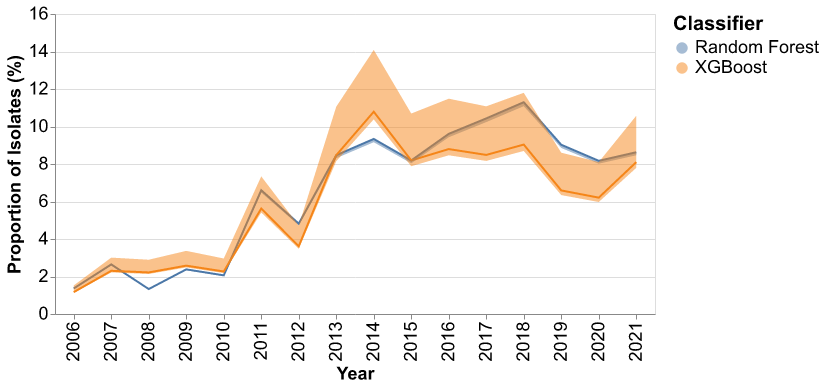
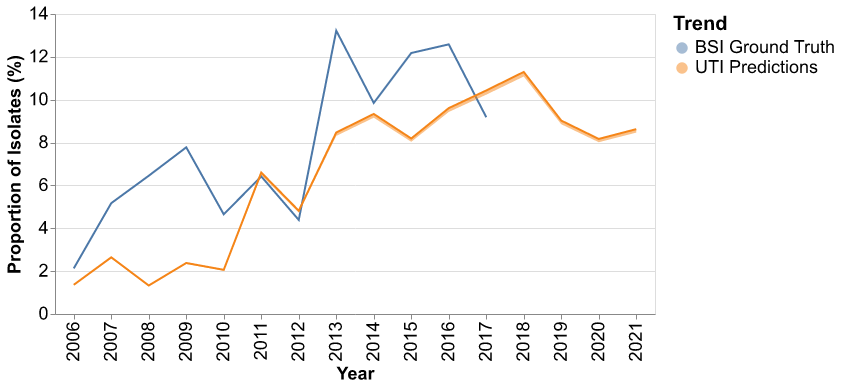
Changing prediction plots for publication

diff --git a/scripts/classifierutils.py b/scripts/classifierutils.py
@@ -9,8 +9,8 @@ from sklearn.ensemble import RandomForestClassifier
 from sklearn.model_selection import GridSearchCV
 from xgboost import XGBClassifier
 
-from scipy.stats import pearsonr, MonteCarloMethod
-from matplotlib import pyplot as plt
+from scipy.stats import pearsonr, PermutationMethod
+
 
 def splitData(*arrays, training_frac=0.8, seed=21687):
     '''
@@ -128,7 +128,7 @@ def testPerformance(y_true:np.ndarray, y_pred:np.ndarray, classifier_name:str=No
 
 
 
-def getYearlyFractions(label:np.ndarray, year:np.ndarray):
+def getYearlyFractions(label:np.ndarray, year:np.ndarray, colname:str) -> pd.core.frame.DataFrame:
     '''
     Helper function to compute the fraction of isolates that are positively labeled
     in each year.
@@ -141,8 +141,10 @@ def getYearlyFractions(label:np.ndarray, year:np.ndarray):
         -  (numpy array) : vector of fractions for each unique year in the 'year' vector.
     '''
     year_axis = np.unique(year)
-    year_masks = [year==yr for yr in year_axis]
-    year_frac = [np.sum(label[mask]==1)/mask.sum() for mask in year_masks] 
+    year_masks = {yr:year==yr for yr in year_axis}
+    year_frac = pd.DataFrame(index=year_axis, columns=[colname])
+    for yr,mask in year_masks.items():
+        year_frac.loc[yr,colname] = np.sum(label[mask]==1)/mask.sum()
     return year_frac
 
 
@@ -183,9 +185,6 @@ def testClassifiers(df:pd.core.frame.DataFrame, err_df:pd.core.frame.DataFrame, 
     charts = []
     printstr = ""
 
-    # ## Reset the index of err_df for later use
-    # err_df = err_df.set_index("Year")
-
     ## Isolate the classifier names
     classifier_names = df.columns.tolist()[6:]
 
@@ -203,11 +202,8 @@ def testClassifiers(df:pd.core.frame.DataFrame, err_df:pd.core.frame.DataFrame, 
     ## Compute desired metrics for each dataset.
     for split,split_df in {"Test":df_test,"Training":df_train}.items():
         ## Isolate data array and labels.
-        # x,y,year,name = tup
         y = split_df["Label"].to_numpy()
-        name = split_df.index.to_numpy()
         year = split_df["Year"].to_numpy()
-        # x = 
 
         ## Add a header to the summary text.
         printstr += "\n\n" + "="*56 + "\n"
@@ -215,15 +211,9 @@ def testClassifiers(df:pd.core.frame.DataFrame, err_df:pd.core.frame.DataFrame, 
         printstr += "="*56
 
         # Compute the true fraction of samples belonging to 131-C
-        year_axis = np.unique(year)
-        true_year_frac = getYearlyFractions(y, year)
-        # corr_dict = {"Truth":true_year_frac}
-
-        ## Initialize a dataframe to plot fraction predictions
-        alt_df = pd.DataFrame({"Year":year_axis, "Truth": true_year_frac})
-
-        ## Initialize a dataframe for the raw predictions
-        pred_df = pd.DataFrame({"Label":y, "Year":year}, index=name)
+        # year_axis = np.unique(year)
+        alt_df = getYearlyFractions(y, year, "Truth")
+        year_axis = alt_df.index.to_numpy()
 
         for cname in classifier_names:
 
@@ -231,39 +221,36 @@ def testClassifiers(df:pd.core.frame.DataFrame, err_df:pd.core.frame.DataFrame, 
             y_pred = split_df[cname].to_numpy()
 
             ## Compute the performance metrics for the current dataset-classifier combination
-            # y_pred = c.predict(x)
             performance_metrics = testPerformance(y, y_pred, cname, verbose=False)
             printstr += performance_metrics[-1]
 
-            # ## Add the current classifier's predictions to the dataset's prediction table
-            # pred_df[cname] = y_pred
-
             ## Compute predicted fractions of 131-C each year
-            pred_year_frac = getYearlyFractions(y_pred, year)
-            alt_df[cname] = pred_year_frac
-            # corr_dict[cname] = pred_year_frac
+            pred_year_frac = getYearlyFractions(y_pred, year, cname)
+            alt_df = pd.merge(alt_df, pred_year_frac, how='outer', left_index=True, right_index=True)
 
             ## Add predicted information to the output string
             printstr += "\n\tYear  |  Predicted Fraction | True Fraction\n\t" + "-"*43 + "\n"
             for jx,yr in enumerate(year_axis):
-                printstr += f"\t{yr}  |\t{pred_year_frac[jx]:3f} \t| \t {true_year_frac[jx]:3f}\n"
+                printstr += f"\t{yr}  |\t{alt_df.loc[yr,cname]:3f} \t| \t {alt_df.loc[yr,'Truth']:3f}\n"
 
             ## Compute the Pearson correlation coeffiecient between the truth and 
             #  predicted fraction values
-            r_val = pearsonr(pred_year_frac, true_year_frac, alternative="greater", method=MonteCarloMethod(n_resamples=5e4))
+            r_val = pearsonr(alt_df[cname], alt_df["Truth"], alternative="greater", method=PermutationMethod())
             printstr += f"\nPearson R: {r_val.statistic:5f}\nR P-value: {r_val.pvalue}\n"
 
         # ## Save the current dataset's predictions
         # pred_df.to_csv(f"training-metrics/{pan_str}/{prefix}_{split}-predictions.csv")
 
+        ## Add a column to specify the data group
         alt_df["Dataset"] = split
-
 
         ## Save correlation plot data
         corr_df = pd.concat([corr_df, alt_df[corr_cols]])
 
         ## Impute the colums of the yearly fraction dataframe to produce 
         #  long-form data, then convert fractions into percentage.
+        alt_df.index.name = "Year"
+        alt_df.reset_index(inplace=True)
         alt_df = alt_df[trend_cols].melt("Year", var_name="Classifier", value_name="Fraction")
         alt_df["Fraction"] = alt_df["Fraction"] * 100
         
@@ -347,7 +334,7 @@ def testClassifiers(df:pd.core.frame.DataFrame, err_df:pd.core.frame.DataFrame, 
 
 
 
-def predictClassifiers(df:pd.core.frame.DataFrame, err_df:pd.core.frame.DataFrame, pan_str:str, prefix:str):
+def predictClassifiers(df:pd.core.frame.DataFrame, err_df:pd.core.frame.DataFrame, pan_str:str, prefix:str, truth_trend:pd.core.frame.DataFrame):
     '''
     Use the trained classifiers to predict and analyze an unlabeled dataset.  This
     function also saves the raw predictions to "output/uti-predictions.csv".
@@ -366,44 +353,48 @@ def predictClassifiers(df:pd.core.frame.DataFrame, err_df:pd.core.frame.DataFram
                             and XGBoost predictions for each year.
     '''    
 
-    ## Initialize a dataframe for plotting
-    alt_df = pd.DataFrame({"Year":np.unique(df["Year"])})
+    ## Define the best classifier
+    cname = "Random Forest"
+
+    ## Use the truth trend as an initial dataframe
+    alt_df = truth_trend.copy()
 
     ## Define the classifier names
     classifier_names = df.columns[4:]
 
     ## Compute the fraction of positive predictions for each year
-    for cname in classifier_names:
-        year_fracs = getYearlyFractions(df[cname], df["Year"].to_numpy())
-        alt_df[cname] = year_fracs
+    # for cname in classifier_names:
+    year_fracs = getYearlyFractions(df[cname], df["Year"].to_numpy(), colname="UTI Predictions")
+    alt_df = pd.merge(alt_df, year_fracs, left_index=True, right_index=True, how='outer')
 
     ## Impute the colums of the yearly fraction dataframe to produce 
     # long-form data, then convert the fraction data into percentages.
+    alt_df.index.name = "Year"
+    alt_df.reset_index(inplace=True)
     melt_alt_df = alt_df.melt("Year", var_name="Classifier", value_name="Fraction")
     melt_alt_df["Fraction"] = melt_alt_df["Fraction"] * 100
 
     ## Use the FPR and FNR values to approximate error margins
     melt_alt_df.set_index(["Year","Classifier"], inplace=True)
-    for cname in classifier_names:
-        fpr_vec = err_df[f"{cname} FPR"].to_numpy()
-        fnr_vec = err_df[f"{cname} FNR"].to_numpy()
+    fpr_vec = err_df[f"{cname} FPR"].to_numpy()
+    fnr_vec = err_df[f"{cname} FNR"].to_numpy()
 
-        idx_tup = (err_df.index, cname)
-        melt_alt_df.loc[idx_tup,"min"] = melt_alt_df.loc[idx_tup,"Fraction"] * (1-fpr_vec)
-        melt_alt_df.loc[idx_tup,"max"] = melt_alt_df.loc[idx_tup,"Fraction"] * (1+fnr_vec)
+    idx_tup = (err_df.index, "UTI Predictions")
+    melt_alt_df.loc[idx_tup,"min"] = melt_alt_df.loc[idx_tup,"Fraction"] * (1-fpr_vec)
+    melt_alt_df.loc[idx_tup,"max"] = melt_alt_df.loc[idx_tup,"Fraction"] * (1+fnr_vec)
     melt_alt_df.reset_index(inplace=True)
     
     ## Visualize the predicted yearly fractions
     line = alt.Chart(melt_alt_df).mark_line().encode(
         x="Year:O",
         y=alt.Y("Fraction:Q", title="Proportion of Isolates (%)"),
-        color="Classifier"
+        color=alt.Color("Classifier:N", title="Trend")
     )
     err = alt.Chart(melt_alt_df).mark_area(opacity=0.5).encode(
         x="Year:O",
         y=alt.Y("max:Q", title="Proportion of Isolates (%)"),
         y2=alt.Y2("min:Q", title="Proportion of Isolates (%)"),
-        color="Classifier:N"
+        color=alt.Color("Classifier:N", title="Trend")
     )
     chart = line+err
     chart = chart.properties(
@@ -426,10 +417,10 @@ def predictClassifiers(df:pd.core.frame.DataFrame, err_df:pd.core.frame.DataFram
 
 
     ## Create a correlation plot between the two predicted trends
-    max_corner = max(alt_df["Random Forest"].max(), alt_df["XGBoost"].max())
+    max_corner = max(alt_df["UTI Predictions"].max(), alt_df["BSI Ground Truth"].max())
     points = alt.Chart(alt_df).mark_point().encode(
-        x=alt.X("Random Forest:Q").scale(domain=[0,max_corner]),
-        y=alt.Y("XGBoost:Q").scale(domain=[0,max_corner])
+        x=alt.X("BSI Ground Truth:Q").scale(domain=[0,max_corner]),
+        y=alt.Y("UTI Predictions:Q").scale(domain=[0,max_corner])
     )
     corr_line = alt.Chart(alt_df).mark_rule(clip=True).encode(
         x = alt.datum(0),
@@ -524,7 +515,6 @@ def trainClassifiers(df:pd.core.frame.DataFrame, pan_str:str, prefix:str,
         _,_,_,_,_,conf,_ = testPerformance(yt, yt_pred, classifier_name=c_name, verbose=False)
         fpr = conf[0,1] / conf[0,:].sum()
         fnr = conf[1,0] / conf[1,:].sum()
-        # err_df[c_name] = 
         err_df[f"{c_name} FPR"] = fpr
         err_df[f"{c_name} FNR"] = fnr
 

diff --git a/scripts/main.py b/scripts/main.py
@@ -2,9 +2,10 @@ import pandas as pd
 import numpy as np
 import os
 import pickle
+from matplotlib import pyplot as plt
 
 from dataproc import extractNORMdata, extractUTIdata
-from classifierutils import splitData, initClassifiers, testClassifiers, predictClassifiers, trainClassifiers
+from classifierutils import splitData, initClassifiers, testClassifiers, predictClassifiers, trainClassifiers, getYearlyFractions
 
 
 
@@ -14,7 +15,7 @@ if __name__=="__main__":
     Declare important parameters.
     '''
     antibiotics = ["Ceftazidim", "Ciprofloxacin", "Gentamicin"]
-    remove_pan = False
+    remove_pan = True
     if remove_pan:
         pan_str = "remove-pan"
     else:
@@ -24,6 +25,7 @@ if __name__=="__main__":
     '''
     Load the processed dataframes.
     '''
+    print("loading data...")
     ## Load the processed NORM dataframe
     if os.path.exists(f"data/processed-spreadsheets/NORM_data_{pan_str}.csv"):
         norm_df = pd.read_csv(f"data/processed-spreadsheets/NORM_data_{pan_str}.csv", index_col="Run accession")
@@ -40,7 +42,7 @@ if __name__=="__main__":
     else:
         uti_df = extractUTIdata("data/raw-spreadsheets/20220324_E. coli NORM urin 2000-2021_no_metadata[2].xlsx", 
                                 *antibiotics, remove_pan_susceptible=remove_pan)
-        uti_df.to_csv(f"./data/processed-spreadsheets/UTI_data._{pan_str}csv")
+        uti_df.to_csv(f"./data/processed-spreadsheets/UTI_data_{pan_str}.csv")
     
     ## Force a consistent categorical encoding to the labels in the NORM dataframe
     labellist = norm_df["Label"].unique().tolist()
@@ -59,6 +61,7 @@ if __name__=="__main__":
     '''
     Train Classifier Models.
     '''
+    print("training models...")
     ## Train classifiers on the combined dataset
     kwargs = {"pan_str":pan_str, "category_mapper":LABEL2CAT, "atbs":antibiotics}
     whole_classifiers, whole_norm_preds, whole_norm_err = trainClassifiers(norm_df, prefix="2006-2017", **kwargs)
@@ -87,6 +90,7 @@ if __name__=="__main__":
     '''
     Utilize the classifiers on the unlabelled UTI data.
     '''
+    print("predicting...")
     ## Isolate the data for prediction.
     uti_x = uti_df[antibiotics].to_numpy()
     old_uti_x = uti_pre_2011[antibiotics].to_numpy()
@@ -113,14 +117,19 @@ if __name__=="__main__":
         if y not in whole_norm_err.index.tolist():
             whole_norm_err.loc[y] = whole_norm_err.loc[2011]
 
+    ## Compute the true yearly fractions from the BSI data
+    bsi_true_fraction = getYearlyFractions(norm_df["Label"].map(LABEL2CAT), norm_df["Year"], "BSI Ground Truth")
+    
     ## Save the predictions
     savecols = ["Year","XGBoost","Random Forest"]
     uti_df[savecols].to_csv(f"output/{pan_str}/UTI-combined.predictions.csv")
     split_uti_df[savecols].to_csv(f"output/{pan_str}/UTI-split.predictions.csv")
 
-    ## Compute results nonsense
-    predictClassifiers(split_uti_df, split_norm_err, pan_str=pan_str, prefix="UTI-split")
-    predictClassifiers(uti_df, whole_norm_err, pan_str=pan_str, prefix="UTI-combined")
+    ## Compute results of the chosen model
+    best_model = "Random Forest"
+    keep_cols = split_uti_df.columns[:4].tolist() + [best_model]
+    predictClassifiers(split_uti_df[keep_cols], split_norm_err, pan_str=pan_str, prefix="UTI-split", truth_trend=bsi_true_fraction)
+    predictClassifiers(uti_df[keep_cols], whole_norm_err, pan_str=pan_str, prefix="UTI-combined", truth_trend=bsi_true_fraction)
 
     
 
